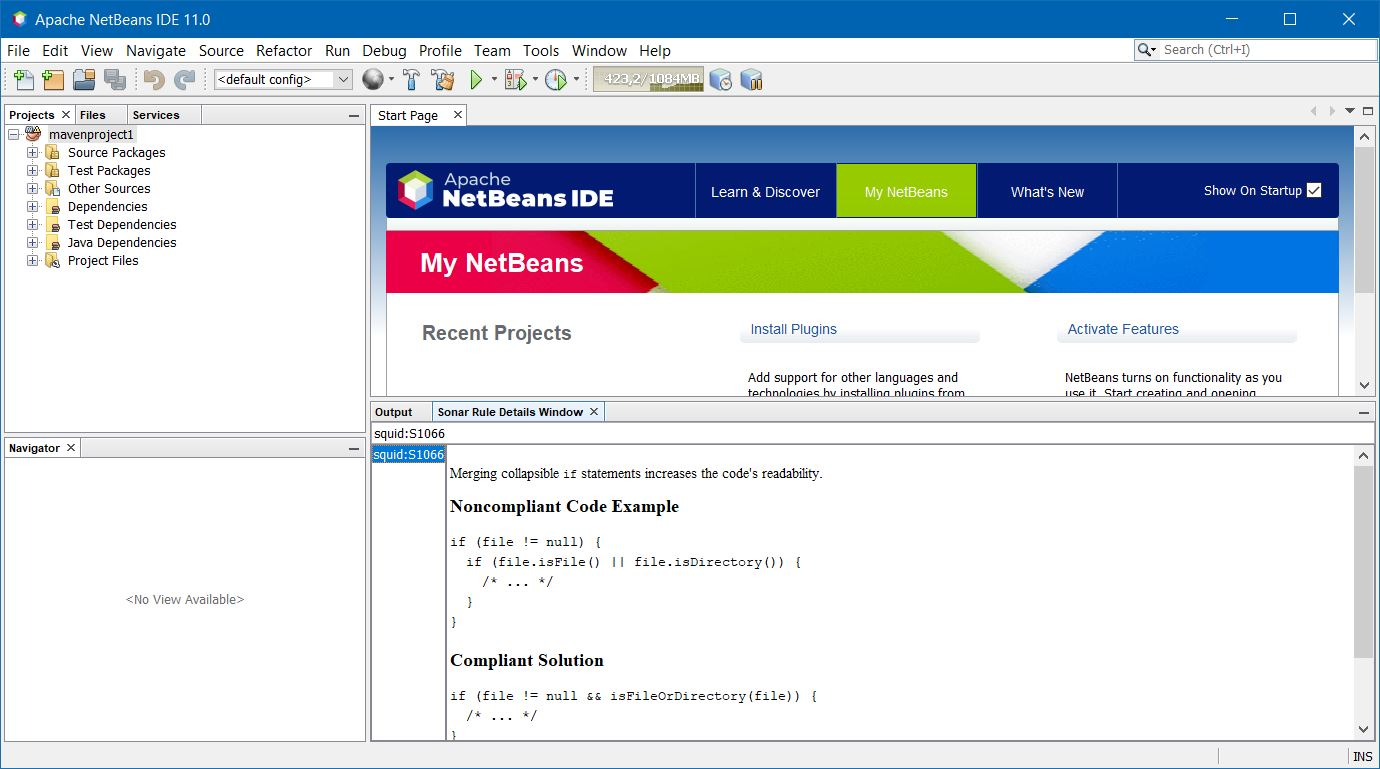
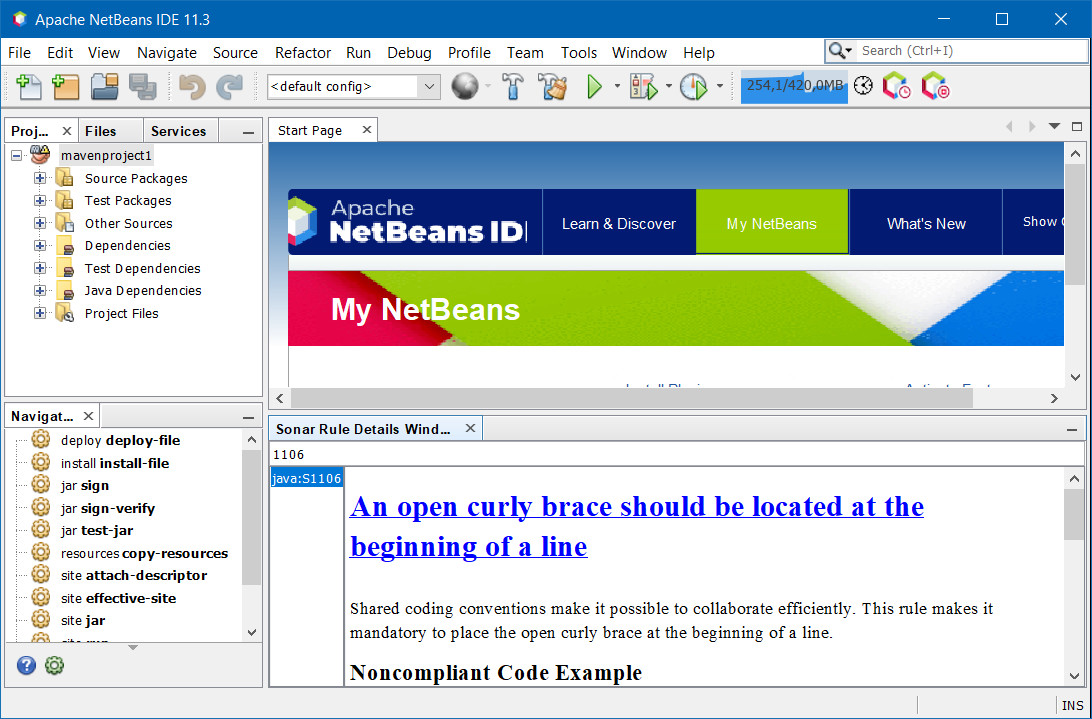
Show details rule when click on annotation, add rule name on details, open browser when click on hyperlink in details

diff --git a/src/main/java/fr/philippefichet/sonarlint/netbeans/SonarLintGlyphAction.java b/src/main/java/fr/philippefichet/sonarlint/netbeans/SonarLintGlyphAction.java
@@ -1,0 +1,99 @@
+/*
+ * Copyright (C) 2020 Philippe FICHET.
+ *
+ * This library is free software; you can redistribute it and/or
+ * modify it under the terms of the GNU Lesser General Public
+ * License as published by the Free Software Foundation; either
+ * version 2.1 of the License, or (at your option) any later version.
+ *
+ * This library is distributed in the hope that it will be useful,
+ * but WITHOUT ANY WARRANTY; without even the implied warranty of
+ * MERCHANTABILITY or FITNESS FOR A PARTICULAR PURPOSE.  See the GNU
+ * Lesser General Public License for more details.
+ *
+ * You should have received a copy of the GNU Lesser General Public
+ * License along with this library; if not, write to the Free Software
+ * Foundation, Inc., 51 Franklin Street, Fifth Floor, Boston,
+ * MA 02110-1301  USA
+ */
+package fr.philippefichet.sonarlint.netbeans;
+
+import java.awt.event.ActionEvent;
+import java.util.Optional;
+import java.util.logging.Logger;
+import javax.swing.AbstractAction;
+import static javax.swing.Action.NAME;
+import javax.swing.JEditorPane;
+import javax.swing.text.BadLocationException;
+import javax.swing.text.Document;
+import org.netbeans.api.editor.document.LineDocumentUtils;
+import org.netbeans.editor.AnnotationDesc;
+import org.netbeans.editor.Annotations;
+import org.netbeans.editor.BaseDocument;
+import org.openide.ErrorManager;
+import org.openide.loaders.DataObject;
+import org.openide.util.NbBundle;
+import org.openide.windows.TopComponent;
+import org.openide.windows.WindowManager;
+
+/**
+ *
+ * @author FICHET Philippe <philippe.fichet@laposte.net>
+ */
+public class SonarLintGlyphAction extends AbstractAction
+{
+    private static final Logger LOG = Logger.getLogger(SonarLintGlyphAction.class.getCanonicalName());
+
+    public SonarLintGlyphAction() {
+        LOG.severe("SonarLintGlyphAction");
+        putValue(NAME, 
+            NbBundle.getMessage(
+                SonarLintGlyphAction.class, 
+                "SonarLintGlyphAction.TXT_GlyphActionName" // NOI18N
+            )
+        );  
+        putValue("supported-annotation-types", new String[] {
+            SonarLintAnnotation.ANNOTATION_TYPE
+        });
+    }
+
+    @Override
+    public void actionPerformed(ActionEvent e) {
+        JEditorPane editorPane = (JEditorPane)e.getSource();
+        final Document doc = editorPane.getDocument();
+        if (doc instanceof BaseDocument) {
+            final int currentPosition = editorPane.getCaretPosition();
+            final Annotations annotations = ((BaseDocument) doc).getAnnotations();
+            final DataObject od = (DataObject) doc.getProperty(Document.StreamDescriptionProperty);
+            if (od == null) {
+                return;
+            }
+            
+            doc.render(() -> {
+                try {
+                    int line = LineDocumentUtils.getLineIndex((BaseDocument)doc, currentPosition);
+                    AnnotationDesc desc = annotations.getActiveAnnotation(line);
+                    Optional<SonarLintAnnotation> sonarLintAnnotation = SonarLintAnnotationHandler.getSonarLintAnnotation(
+                        od.getPrimaryFile(),
+                        desc.getOffset(),
+                        desc.getLength(),
+                        desc.getShortDescription()
+                    );
+                    sonarLintAnnotation.ifPresent(sla -> {
+                        TopComponent topComponent = WindowManager.getDefault().findTopComponent("SonarRuleDetailsTopComponent");
+                        if (topComponent instanceof SonarRuleDetailsTopComponent) {
+                            SonarRuleDetailsTopComponent sonarRuleDetailsTopComponent = (SonarRuleDetailsTopComponent)topComponent;
+                            sonarRuleDetailsTopComponent.open();
+                            sonarRuleDetailsTopComponent.requestActive();
+                            sonarRuleDetailsTopComponent.requestFocusInWindow();
+                            sonarRuleDetailsTopComponent.setSonarRuleKeyFilter(sla.getRuleKey());
+                        }
+                    });
+                } catch (BadLocationException ex) {
+                    ErrorManager.getDefault().notify(ex);
+                }
+            });
+        }
+        
+    }
+}

diff --git a/src/main/java/fr/philippefichet/sonarlint/netbeans/SonarRuleDetailsTopComponent.java b/src/main/java/fr/philippefichet/sonarlint/netbeans/SonarRuleDetailsTopComponent.java
@@ -19,12 +19,19 @@
  */
 package fr.philippefichet.sonarlint.netbeans;
 
+import java.awt.Desktop;
+import java.io.IOException;
+import java.net.URISyntaxException;
 import java.util.Collection;
 import java.util.Optional;
 import javax.swing.DefaultListModel;
+import javax.swing.event.HyperlinkEvent;
+import javax.swing.event.HyperlinkListener;
 import org.netbeans.api.settings.ConvertAsProperties;
+import org.openide.ErrorManager;
 import org.openide.awt.ActionID;
 import org.openide.awt.ActionReference;
+import org.openide.util.Exceptions;
 import org.openide.util.Lookup;
 import org.openide.util.NbBundle.Messages;
 import org.openide.windows.TopComponent;
@@ -91,6 +98,21 @@ public final class SonarRuleDetailsTopComponent extends TopComponent {
         sonarLintRuleDetailsEditor.setEditable(false);
         sonarLintRuleDetailsEditor.setContentType("text/html");
         jScrollPane1.setViewportView(sonarLintRuleDetailsEditor);
+        if (Desktop.isDesktopSupported()) {
+            sonarLintRuleDetailsEditor.addHyperlinkListener(new HyperlinkListener() {
+                @Override
+                public void hyperlinkUpdate(HyperlinkEvent e) {
+                    if (e.getEventType() == HyperlinkEvent.EventType.ACTIVATED) {
+                        try {
+                            Desktop.getDesktop().browse(e.getURL().toURI());
+                        } catch (URISyntaxException | IOException ex) {
+                            ErrorManager.getDefault().log("Unable to open browser on URL: " + e.getURL());
+                            Exceptions.printStackTrace(ex);
+                        }
+                    }
+                }
+            });
+        }
 
         add(jScrollPane1, java.awt.BorderLayout.CENTER);
 
@@ -117,7 +139,10 @@ public final class SonarRuleDetailsTopComponent extends TopComponent {
             Optional<RuleDetails> optionalRuleDetails = engine.getRuleDetails(selectedValue);
             if (optionalRuleDetails.isPresent()) {
                 RuleDetails ruleDetails = optionalRuleDetails.get();
-                sonarLintRuleDetailsEditor.setText(ruleDetails.getHtmlDescription());
+                sonarLintRuleDetailsEditor.setText(
+                    "<h1><a href=\"" + SonarLintUtils.toURL(ruleDetails) + "\">" + ruleDetails.getName() + "</a></h1>"
+                    + ruleDetails.getHtmlDescription()
+                );
                 sonarLintRuleDetailsEditor.getCaret().moveDot(0);
             }
         });
@@ -164,5 +189,12 @@ public final class SonarRuleDetailsTopComponent extends TopComponent {
     void readProperties(java.util.Properties p) {
         String version = p.getProperty("version");
         // TODO read your settings according to their version
+    }
+    
+    public void setSonarRuleKeyFilter(String sonarRuleKeyFilter)
+    {
+        this.sonarRuleKeyFilter.setText(sonarRuleKeyFilter);
+        sonarLintAllRules.setSelectedValue(sonarRuleKeyFilter, true);
+        updateUI();
     }
 }

diff --git a/src/main/java/fr/philippefichet/sonarlint/netbeans/SonarLintAnnotationHandler.java b/src/main/java/fr/philippefichet/sonarlint/netbeans/SonarLintAnnotationHandler.java
@@ -27,6 +27,7 @@ import java.util.Collections;
 import java.util.HashMap;
 import java.util.List;
 import java.util.Map;
+import java.util.Optional;
 import javax.swing.text.Position;
 import org.openide.cookies.EditorCookie;
 import org.openide.filesystems.FileObject;
@@ -44,6 +45,27 @@ public final class SonarLintAnnotationHandler {
     private static final Map<FileObject, List<SonarLintAnnotation>> ANNOTATIONS_BY_FILEOBJECT = Collections.synchronizedMap(new HashMap<FileObject, List<SonarLintAnnotation>>());
 
     private SonarLintAnnotationHandler() {
+    }
+    
+    public static Optional<SonarLintAnnotation> getSonarLintAnnotation(
+        FileObject fileObject,
+        long startOffset,
+        int length,
+        String shortDescription
+    )
+    {
+        List<SonarLintAnnotation> sonarlintAnnotaions = ANNOTATIONS_BY_FILEOBJECT.get(fileObject);
+        if (sonarlintAnnotaions != null) {
+            for (SonarLintAnnotation sonarlintAnnotaion : sonarlintAnnotaions) {
+                if (sonarlintAnnotaion.getStartOffest() == startOffset
+                    && sonarlintAnnotaion.getLength() == length
+                    && sonarlintAnnotaion.getShortDescription().equals(shortDescription)
+                ) {
+                    return Optional.of(sonarlintAnnotaion);
+                }
+            }
+        }
+        return Optional.empty();
     }
 
     public static void analyze(SonarLintEngine standaloneSonarLintEngineImpl, FileObject fileObject, String textToAnalyze) throws DataObjectNotFoundException, IOException {
@@ -94,7 +116,7 @@ public final class SonarLintAnnotationHandler {
             int nbEndLineOffset = NbDocument.findLineOffset(editorCookie.getDocument(), endLine - 1);
             int endOffset = nbEndLineOffset + endLineOffset;
             int length = endOffset - startOffset;
-            currentAnnocationOnFileObject.add(new SonarLintAnnotation(sue.getRuleKey() + " = " + sue.getRuleName(), startOffset, length));
+            currentAnnocationOnFileObject.add(new SonarLintAnnotation(sue.getRuleKey(), sue.getRuleName(), startOffset, length));
         });
 
         // Remove all previous Sonarlint annotations

diff --git a/src/main/java/fr/philippefichet/sonarlint/netbeans/SonarLintAnnotation.java b/src/main/java/fr/philippefichet/sonarlint/netbeans/SonarLintAnnotation.java
@@ -27,16 +27,20 @@ import org.openide.text.Annotation;
  */
 public class SonarLintAnnotation extends Annotation {
 
-    private static final String ANNOTATION_TYPE = "fr-philippefichet-sonarlint-netbeans-annotation";
+    public static final String ANNOTATION_TYPE = "fr-philippefichet-sonarlint-netbeans-annotation";
     private final long startOffest;
     private final int length;
     private final String shortDescription;
+    private final String ruleKey;
+    private final String ruleName;
 
-    public SonarLintAnnotation(String shortDescription, long startOffest, int length) {
+    public SonarLintAnnotation(String ruleKey, String ruleName, long startOffest, int length) {
         super();
         this.startOffest = startOffest;
         this.length = length;
-        this.shortDescription = shortDescription;
+        this.shortDescription = ruleKey + "\n" + ruleName + "\nClick to show details";
+        this.ruleKey = ruleKey;
+        this.ruleName = ruleName;
     }
 
     public long getStartOffest() {
@@ -57,4 +61,11 @@ public class SonarLintAnnotation extends Annotation {
         return shortDescription;
     }
 
+    public String getRuleKey() {
+        return ruleKey;
+    }
+
+    public String getRuleName() {
+        return ruleName;
+    }
 }

diff --git a/src/main/java/fr/philippefichet/sonarlint/netbeans/SonarLintUtils.java b/src/main/java/fr/philippefichet/sonarlint/netbeans/SonarLintUtils.java
@@ -51,6 +51,12 @@ public final class SonarLintUtils {
 
     private SonarLintUtils() {
     }
+    
+    public static String toURL(RuleDetails ruleDetails)
+    {
+        String[] keySplit = ruleDetails.getKey().split(":");
+        return "https://rules.sonarsource.com/" + keySplit[0] + "/RSPEC-" + keySplit[1].substring(1);
+    }
 
     public static List<Issue> analyze(FileObject fileObject, String contentToAnalyze) throws IOException {
         SonarLintEngine sonarLintEngine = Lookup.getDefault().lookup(SonarLintEngine.class);
